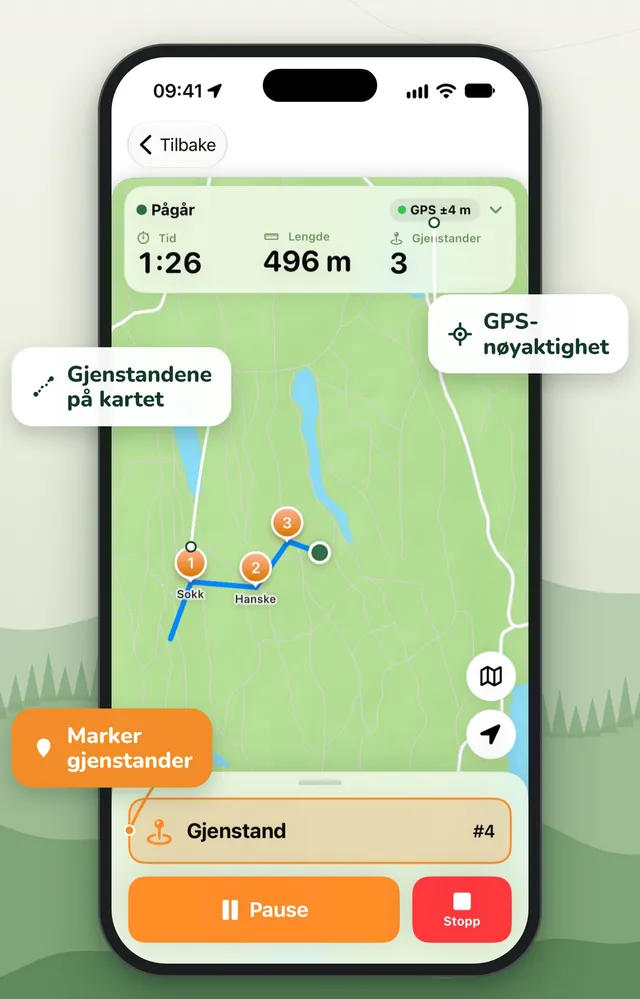
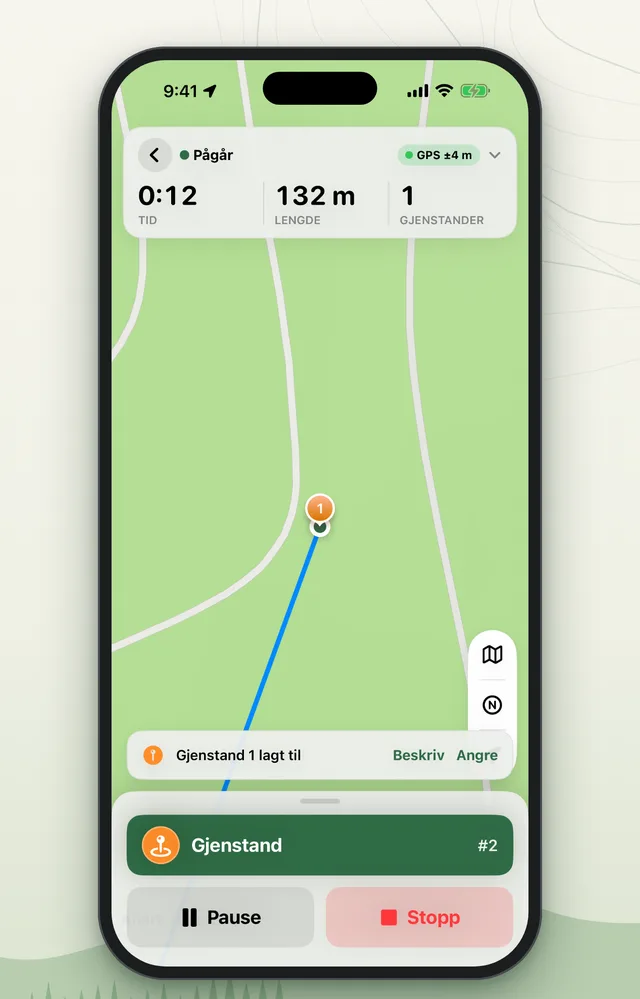
Skjermbilder fra den nye versjonen i galleriet og toppen
Galleriet og toppbildet viser nå appen i det nye designet på alle tre språk,
merket som den nye versjonen som kommer i App Store snart. Merkingen skjules
automatisk fra lanseringsdatoen.

Claude-Session: https://claude.ai/code/session_019xNHc9FxHePS8vbi4rX3sm

diff --git a/sv/index.html b/sv/index.html
@@ -220,6 +220,9 @@ nav .kj:active{transform:scale(.97)}
 .forside footer .liten{margin:40px 0 0;font-size:14px}
 .forside footer .utvikler{font-size:14px}
 @media (max-width:600px){.forside footer{padding-block:64px 32px}}
+/* Merking av skjermbildene før lansering: skjules av lanseringsskriptet fra datoen */
+.ny-merke{position:absolute;left:20px;top:20px;z-index:1;background:var(--on-deep);color:var(--deep);font:700 14px/1 var(--display);padding:8px 12px;border-radius:999px}
+.ny-tekst{margin:20px 0 0;font-size:16px;color:var(--muted)}
 </style>
 <script>
 /* Klargjør sporanimasjonen før første tegning, så den statiske linja ikke blinker. Vises likevel hvis spor.js ikke lastes. */
@@ -262,20 +265,21 @@ if(location.hash==='#integritet')location.replace('integritet/');
       </div>
       <ul class="tillit"><li>Inget konto</li><li>Ingen reklam</li><li>Datan stannar i telefonen</li></ul>
     </div>
-    <div class="flate"><img src="../img/galleri/galleri-sv-4-ga-sporet.webp" width="640" height="999" alt="Hunden spårar, med det lagda spåret i blått, din väg i rött och antal fynd" decoding="async" fetchpriority="high"></div>
+    <div class="flate"><span class="ny-merke">Ny version, kommer snart</span><img src="../img/galleri/galleri-sv-5-resultat.webp" width="640" height="999" alt="Resultatet för ett avslutat spår med karta, hittade föremål, längd, spårets ålder och bedömning" decoding="async" fetchpriority="high"></div>
   </header>
   <div class="wrap">
     <svg class="trackline" viewBox="0 0 700 60" preserveAspectRatio="none" aria-hidden="true">
       <path d="M10 40 C 90 10, 150 55, 240 30 S 380 8, 460 38 S 600 50, 690 18"/>
       <circle cx="10" cy="40" r="6"/><circle cx="690" cy="18" r="6"/>
     </svg>
+    <p class="ny-tekst">Bilderna är från den nya versionen av Trax, som snart kommer till App Store.</p>
     <div class="galleri" role="region" aria-roledescription="karusell" aria-label="Skärmbilder från appen" data-forrige="Föregående bild" data-neste="Nästa bild" data-prikk="Bild {n} av {t}">
       <ul class="g-liste" tabindex="0" aria-label="Skärmbilder från appen">
-        <li><figure><img src="../img/galleri/galleri-sv-1-oversikt.webp" width="640" height="999" alt="Startsidan i Trax med listan över spår, knappar för att lägga och importera spår och filter på hund" decoding="async"><figcaption><b>Full koll på dina spår</b><span>Lägg nya spår, importera spår och se resultaten för varje hund.</span></figcaption></figure></li>
+        <li><figure><img src="../img/galleri/galleri-sv-1-oversikt.webp" width="640" height="999" alt="Startsidan i Trax med spår som är klara att spåra, de senaste spåren och knapp för nytt spår" decoding="async"><figcaption><b>Full koll på dina spår</b><span>Lägg nya spår, importera spår och se resultaten för varje hund.</span></figcaption></figure></li>
         <li><figure><img src="../img/galleri/galleri-sv-2-legg-spor.webp" width="640" height="999" alt="Ett spår som läggs, med karta, tid, längd och antal utlagda föremål" decoding="async" loading="lazy"><figcaption><b>Lägg spår med GPS</b><span>Se tid, längd och antal föremål medan du lägger spåret.</span></figcaption></figure></li>
         <li><figure><img src="../img/galleri/galleri-sv-3-varsel.webp" width="640" height="999" alt="En avisering om att ett föremål är nära, med en knapp för att markera det som hittat" decoding="async" loading="lazy"><figcaption><b>Avisering när du närmar dig</b><span>Appen säger till när du är nära ett föremål, och du markerar det som hittat med ett tryck.</span></figcaption></figure></li>
         <li><figure><img src="../img/galleri/galleri-sv-4-ga-sporet.webp" width="640" height="999" alt="Hunden spårar, med det lagda spåret i blått, din väg i rött och antal fynd" decoding="async" loading="lazy"><figcaption><b>Spåra med hunden</b><span>Det lagda spåret visas i blått och din väg i rött, med fynden längs vägen.</span></figcaption></figure></li>
-        <li><figure><img src="../img/galleri/galleri-sv-5-resultat.webp" width="640" height="999" alt="Resultatet för ett avslutat spår med karta, hittade föremål, spårets ålder och väder" decoding="async" loading="lazy"><figcaption><b>Se resultatet av varje spår</b><span>Fynd, spårets ålder, längd och väder samlas efter varje pass.</span></figcaption></figure></li>
+        <li><figure><img src="../img/galleri/galleri-sv-5-resultat.webp" width="640" height="999" alt="Resultatet för ett avslutat spår med karta, hittade föremål, längd, spårets ålder och bedömning" decoding="async" loading="lazy"><figcaption><b>Se resultatet av varje spår</b><span>Fynd, spårets ålder, längd och väder samlas efter varje pass.</span></figcaption></figure></li>
       </ul>
       <div class="g-ktrl" hidden><button class="g-pil" type="button" data-steg="-1" aria-label="Föregående bild"><svg viewBox="0 0 24 24" fill="none" stroke="currentColor" stroke-width="2.4" stroke-linecap="round" stroke-linejoin="round" aria-hidden="true"><path d="M15 5l-7 7 7 7"/></svg></button><div class="g-prikker"></div><button class="g-pil" type="button" data-steg="1" aria-label="Nästa bild"><svg viewBox="0 0 24 24" fill="none" stroke="currentColor" stroke-width="2.4" stroke-linecap="round" stroke-linejoin="round" aria-hidden="true"><path d="M9 5l7 7-7 7"/></svg></button></div>
     </div>
@@ -343,6 +347,7 @@ document.addEventListener('keydown',function(e){if(e.key==='Escape'&&d.open){d.o
 (function(){var d=document.body.getAttribute('data-lansering');if(!d)return;
 var t=new Date(d+'T00:00:00').getTime(),n=Date.now();if(isNaN(t)||n<t)return;
 var k=document.querySelectorAll('.kjop');for(var j=0;j<k.length;j++){k[j].querySelector('.snart').hidden=true;k[j].querySelector('.live').hidden=false}
+var m=document.querySelectorAll('.ny-merke,.ny-tekst');for(var q=0;q<m.length;q++)m[q].hidden=true;
 var a=document.querySelector('nav .kj');if(a)a.href='https://apps.apple.com/app/id6758005408';
 if(n>=t+7*864e5){var e=document.querySelectorAll('.kjop .intro,.kjop .ord');for(var i=0;i<e.length;i++)e[i].hidden=!e[i].hidden}})();
 </script>

diff --git a/en/index.html b/en/index.html
@@ -220,6 +220,9 @@ nav .kj:active{transform:scale(.97)}
 .forside footer .liten{margin:40px 0 0;font-size:14px}
 .forside footer .utvikler{font-size:14px}
 @media (max-width:600px){.forside footer{padding-block:64px 32px}}
+/* Merking av skjermbildene før lansering: skjules av lanseringsskriptet fra datoen */
+.ny-merke{position:absolute;left:20px;top:20px;z-index:1;background:var(--on-deep);color:var(--deep);font:700 14px/1 var(--display);padding:8px 12px;border-radius:999px}
+.ny-tekst{margin:20px 0 0;font-size:16px;color:var(--muted)}
 </style>
 <script>
 /* Klargjør sporanimasjonen før første tegning, så den statiske linja ikke blinker. Vises likevel hvis spor.js ikke lastes. */
@@ -262,20 +265,21 @@ if(location.hash==='#privacy')location.replace('privacy/');
       </div>
       <ul class="tillit"><li>No account</li><li>No ads</li><li>Your data stays on your phone</li></ul>
     </div>
-    <div class="flate"><img src="../img/galleri/galleri-en-4-ga-sporet.webp" width="640" height="999" alt="The dog on the track, with the laid track in blue, your route in red and the number of finds" decoding="async" fetchpriority="high"></div>
+    <div class="flate"><span class="ny-merke">New version, coming soon</span><img src="../img/galleri/galleri-en-5-resultat.webp" width="640" height="999" alt="The result of a completed track with map, items found, length, track age and rating" decoding="async" fetchpriority="high"></div>
   </header>
   <div class="wrap">
     <svg class="trackline" viewBox="0 0 700 60" preserveAspectRatio="none" aria-hidden="true">
       <path d="M10 40 C 90 10, 150 55, 240 30 S 380 8, 460 38 S 600 50, 690 18"/>
       <circle cx="10" cy="40" r="6"/><circle cx="690" cy="18" r="6"/>
     </svg>
+    <p class="ny-tekst">These screenshots are from the new version of Trax, coming soon to the App Store.</p>
     <div class="galleri" role="region" aria-roledescription="carousel" aria-label="Screenshots from the app" data-forrige="Previous image" data-neste="Next image" data-prikk="Image {n} of {t}">
       <ul class="g-liste" tabindex="0" aria-label="Screenshots from the app">
-        <li><figure><img src="../img/galleri/galleri-en-1-oversikt.webp" width="640" height="999" alt="The Trax home screen with the list of tracks, buttons to lay and import tracks and a dog filter" decoding="async"><figcaption><b>Every track at a glance</b><span>Lay new tracks, import tracks and see the results for each dog.</span></figcaption></figure></li>
+        <li><figure><img src="../img/galleri/galleri-en-1-oversikt.webp" width="640" height="999" alt="The Trax home screen with tracks ready to run, recent tracks and a button for a new track" decoding="async"><figcaption><b>Every track at a glance</b><span>Lay new tracks, import tracks and see the results for each dog.</span></figcaption></figure></li>
         <li><figure><img src="../img/galleri/galleri-en-2-legg-spor.webp" width="640" height="999" alt="A track being laid, with map, time, length and number of items placed" decoding="async" loading="lazy"><figcaption><b>Lay tracks with GPS</b><span>See time, length and number of items while you lay the track.</span></figcaption></figure></li>
         <li><figure><img src="../img/galleri/galleri-en-3-varsel.webp" width="640" height="999" alt="An alert that an item is close by, with a button to mark it as found" decoding="async" loading="lazy"><figcaption><b>Get alerted near each item</b><span>The app tells you when you are close to an item, and you mark it as found with one tap.</span></figcaption></figure></li>
         <li><figure><img src="../img/galleri/galleri-en-4-ga-sporet.webp" width="640" height="999" alt="The dog on the track, with the laid track in blue, your route in red and the number of finds" decoding="async" loading="lazy"><figcaption><b>Walk the track with your dog</b><span>The laid track shows in blue and your route in red, with finds along the way.</span></figcaption></figure></li>
-        <li><figure><img src="../img/galleri/galleri-en-5-resultat.webp" width="640" height="999" alt="The result of a completed track with map, items found, track age and weather" decoding="async" loading="lazy"><figcaption><b>See the result of every track</b><span>Finds, track age, length and weather, collected after each session.</span></figcaption></figure></li>
+        <li><figure><img src="../img/galleri/galleri-en-5-resultat.webp" width="640" height="999" alt="The result of a completed track with map, items found, length, track age and rating" decoding="async" loading="lazy"><figcaption><b>See the result of every track</b><span>Finds, track age, length and weather, collected after each session.</span></figcaption></figure></li>
       </ul>
       <div class="g-ktrl" hidden><button class="g-pil" type="button" data-steg="-1" aria-label="Previous image"><svg viewBox="0 0 24 24" fill="none" stroke="currentColor" stroke-width="2.4" stroke-linecap="round" stroke-linejoin="round" aria-hidden="true"><path d="M15 5l-7 7 7 7"/></svg></button><div class="g-prikker"></div><button class="g-pil" type="button" data-steg="1" aria-label="Next image"><svg viewBox="0 0 24 24" fill="none" stroke="currentColor" stroke-width="2.4" stroke-linecap="round" stroke-linejoin="round" aria-hidden="true"><path d="M9 5l7 7-7 7"/></svg></button></div>
     </div>
@@ -343,6 +347,7 @@ document.addEventListener('keydown',function(e){if(e.key==='Escape'&&d.open){d.o
 (function(){var d=document.body.getAttribute('data-lansering');if(!d)return;
 var t=new Date(d+'T00:00:00').getTime(),n=Date.now();if(isNaN(t)||n<t)return;
 var k=document.querySelectorAll('.kjop');for(var j=0;j<k.length;j++){k[j].querySelector('.snart').hidden=true;k[j].querySelector('.live').hidden=false}
+var m=document.querySelectorAll('.ny-merke,.ny-tekst');for(var q=0;q<m.length;q++)m[q].hidden=true;
 var a=document.querySelector('nav .kj');if(a)a.href='https://apps.apple.com/app/id6758005408';
 if(n>=t+7*864e5){var e=document.querySelectorAll('.kjop .intro,.kjop .ord');for(var i=0;i<e.length;i++)e[i].hidden=!e[i].hidden}})();
 </script>

diff --git a/index.html b/index.html
@@ -220,6 +220,9 @@ nav .kj:active{transform:scale(.97)}
 .forside footer .liten{margin:40px 0 0;font-size:14px}
 .forside footer .utvikler{font-size:14px}
 @media (max-width:600px){.forside footer{padding-block:64px 32px}}
+/* Merking av skjermbildene før lansering: skjules av lanseringsskriptet fra datoen */
+.ny-merke{position:absolute;left:20px;top:20px;z-index:1;background:var(--on-deep);color:var(--deep);font:700 14px/1 var(--display);padding:8px 12px;border-radius:999px}
+.ny-tekst{margin:20px 0 0;font-size:16px;color:var(--muted)}
 </style>
 <script>
 /* Klargjør sporanimasjonen før første tegning, så den statiske linja ikke blinker. Vises likevel hvis spor.js ikke lastes. */
@@ -262,20 +265,21 @@ if(location.hash==='#personvern')location.replace('personvern/');
       </div>
       <ul class="tillit"><li>Ingen konto</li><li>Ingen reklame</li><li>Dataene blir på telefonen</li></ul>
     </div>
-    <div class="flate"><img src="img/galleri/galleri-nb-4-ga-sporet.webp" width="640" height="999" alt="Hunden på sporet, med det lagte sporet i blått, din vei i rødt og antall funn" decoding="async" fetchpriority="high"></div>
+    <div class="flate"><span class="ny-merke">Ny versjon, kommer snart</span><img src="img/galleri/galleri-nb-5-resultat.webp" width="640" height="999" alt="Resultatet for et fullført spor med kart, funn, lengde, liggetid og vurdering" decoding="async" fetchpriority="high"></div>
   </header>
   <div class="wrap">
     <svg class="trackline" viewBox="0 0 700 60" preserveAspectRatio="none" aria-hidden="true">
       <path d="M10 40 C 90 10, 150 55, 240 30 S 380 8, 460 38 S 600 50, 690 18"/>
       <circle cx="10" cy="40" r="6"/><circle cx="690" cy="18" r="6"/>
     </svg>
+    <p class="ny-tekst">Bildene er fra den nye versjonen av Trax, som kommer i App Store snart.</p>
     <div class="galleri" role="region" aria-roledescription="karusell" aria-label="Skjermbilder fra appen" data-forrige="Forrige bilde" data-neste="Neste bilde" data-prikk="Bilde {n} av {t}">
       <ul class="g-liste" tabindex="0" aria-label="Skjermbilder fra appen">
-        <li><figure><img src="img/galleri/galleri-nb-1-oversikt.webp" width="640" height="999" alt="Startsiden i Trax med lista over spor, knapper for å legge og importere spor og filter på hund" decoding="async"><figcaption><b>Full oversikt over sporene dine</b><span>Legg nye spor, importer spor og se resultatene for hver hund.</span></figcaption></figure></li>
+        <li><figure><img src="img/galleri/galleri-nb-1-oversikt.webp" width="640" height="999" alt="Startsiden i Trax med spor som er klare til å gå, de siste sporene og knapp for nytt spor" decoding="async"><figcaption><b>Full oversikt over sporene dine</b><span>Legg nye spor, importer spor og se resultatene for hver hund.</span></figcaption></figure></li>
         <li><figure><img src="img/galleri/galleri-nb-2-legg-spor.webp" width="640" height="999" alt="Et spor som legges, med kart, tid, lengde og antall gjenstander lagt ut" decoding="async" loading="lazy"><figcaption><b>Legg spor med GPS</b><span>Se tid, lengde og antall gjenstander mens du legger sporet.</span></figcaption></figure></li>
         <li><figure><img src="img/galleri/galleri-nb-3-varsel.webp" width="640" height="999" alt="Varsel om at en gjenstand er like i nærheten, med knapp for å merke den som funnet" decoding="async" loading="lazy"><figcaption><b>Varsel når du nærmer deg funn</b><span>Appen sier ifra når du er nær en gjenstand, og du merker den som funnet med ett trykk.</span></figcaption></figure></li>
         <li><figure><img src="img/galleri/galleri-nb-4-ga-sporet.webp" width="640" height="999" alt="Hunden på sporet, med det lagte sporet i blått, din vei i rødt og antall funn" decoding="async" loading="lazy"><figcaption><b>Følg sporet med hunden</b><span>Det lagte sporet vises i blått og din vei i rødt, med funnene underveis.</span></figcaption></figure></li>
-        <li><figure><img src="img/galleri/galleri-nb-5-resultat.webp" width="640" height="999" alt="Resultatet for et fullført spor med kart, funn, liggetid og værforhold" decoding="async" loading="lazy"><figcaption><b>Se resultatet av hvert spor</b><span>Funn, liggetid, lengde og vær samles etter hver økt.</span></figcaption></figure></li>
+        <li><figure><img src="img/galleri/galleri-nb-5-resultat.webp" width="640" height="999" alt="Resultatet for et fullført spor med kart, funn, lengde, liggetid og vurdering" decoding="async" loading="lazy"><figcaption><b>Se resultatet av hvert spor</b><span>Funn, liggetid, lengde og vær samles etter hver økt.</span></figcaption></figure></li>
       </ul>
       <div class="g-ktrl" hidden><button class="g-pil" type="button" data-steg="-1" aria-label="Forrige bilde"><svg viewBox="0 0 24 24" fill="none" stroke="currentColor" stroke-width="2.4" stroke-linecap="round" stroke-linejoin="round" aria-hidden="true"><path d="M15 5l-7 7 7 7"/></svg></button><div class="g-prikker"></div><button class="g-pil" type="button" data-steg="1" aria-label="Neste bilde"><svg viewBox="0 0 24 24" fill="none" stroke="currentColor" stroke-width="2.4" stroke-linecap="round" stroke-linejoin="round" aria-hidden="true"><path d="M9 5l7 7-7 7"/></svg></button></div>
     </div>
@@ -343,6 +347,7 @@ document.addEventListener('keydown',function(e){if(e.key==='Escape'&&d.open){d.o
 (function(){var d=document.body.getAttribute('data-lansering');if(!d)return;
 var t=new Date(d+'T00:00:00').getTime(),n=Date.now();if(isNaN(t)||n<t)return;
 var k=document.querySelectorAll('.kjop');for(var j=0;j<k.length;j++){k[j].querySelector('.snart').hidden=true;k[j].querySelector('.live').hidden=false}
+var m=document.querySelectorAll('.ny-merke,.ny-tekst');for(var q=0;q<m.length;q++)m[q].hidden=true;
 var a=document.querySelector('nav .kj');if(a)a.href='https://apps.apple.com/app/id6758005408';
 if(n>=t+7*864e5){var e=document.querySelectorAll('.kjop .intro,.kjop .ord');for(var i=0;i<e.length;i++)e[i].hidden=!e[i].hidden}})();
 </script>

diff --git a/README.md b/README.md
@@ -20,7 +20,7 @@ Språkvelgeren i menyen (`<details class="lang">`) har én linje per språk. Nyt
 
 ## Skjermbildegalleri
 
-Forsiden har et sveipbart galleri med fem skjermbilder (`img/galleri/galleri-<språk>-<nr>-<navn>.webp`, 640 × 999). Bildene er App Store-bildene uten overskrift, laget fra `appstore-bilder/kilde/shot.html` i prosjektmappa, og teksten under hvert bilde står i HTML-en. `galleri.js` legger til piler og prikker og er felles for alle språk. Nytt språk: lag fem nye bilder og kopier `<div class="galleri">` med oversatt tekst.
+Forsiden har et sveipbart galleri med fem skjermbilder (`img/galleri/galleri-<språk>-<nr>-<navn>.webp`, 640 × 999). Bildene er laget fra skjermbildene i det nye designet (`appstore-bilder/kilde/nytt-design/<språk>/`, fra skjermbilde-workflowen i app-repoet), satt i en telefon på samme bakgrunn som App Store-bildene, uten piler og merkelapper. Teksten under hvert bilde står i HTML-en. Toppbildet på forsiden er bilde 5. Før lansering står det «Ny versjon, kommer snart» på toppbildet og en setning over galleriet; begge skjules automatisk fra lanseringsdatoen. `galleri.js` legger til piler og prikker og er felles for alle språk. Nytt språk: lag fem nye bilder og kopier `<div class="galleri">` med oversatt tekst.
 
 ## Brukermanual
 
